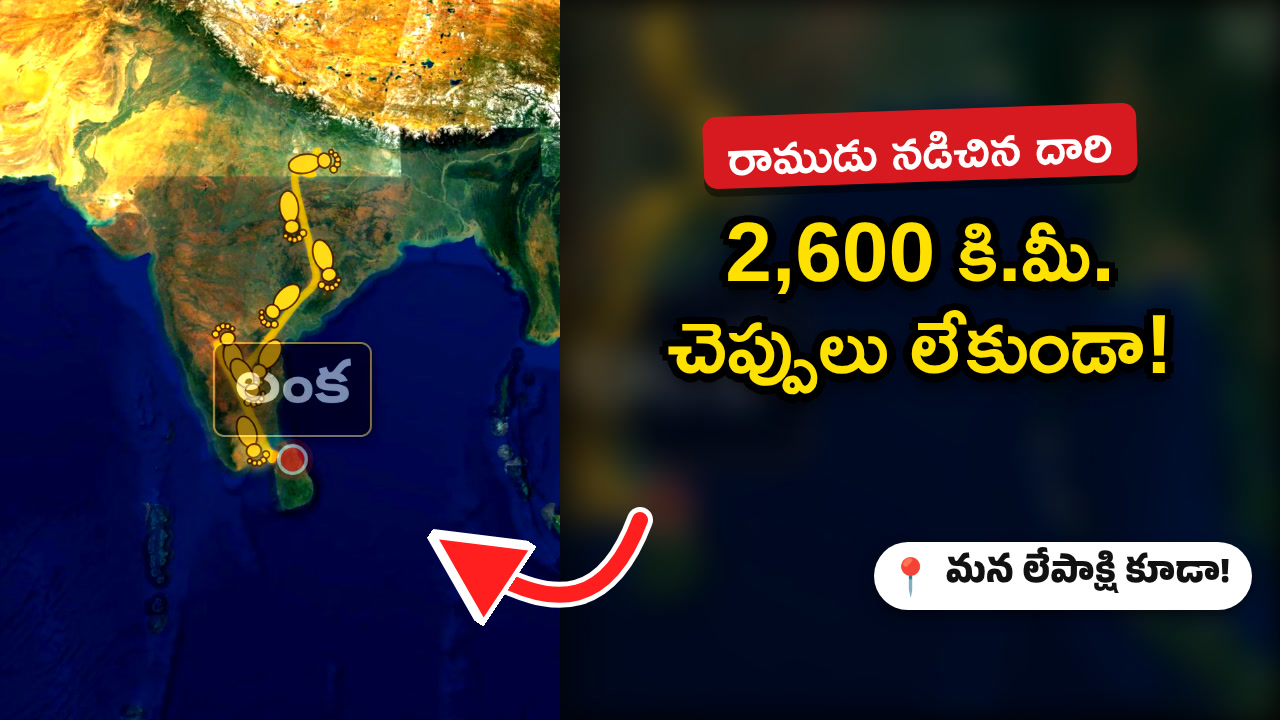
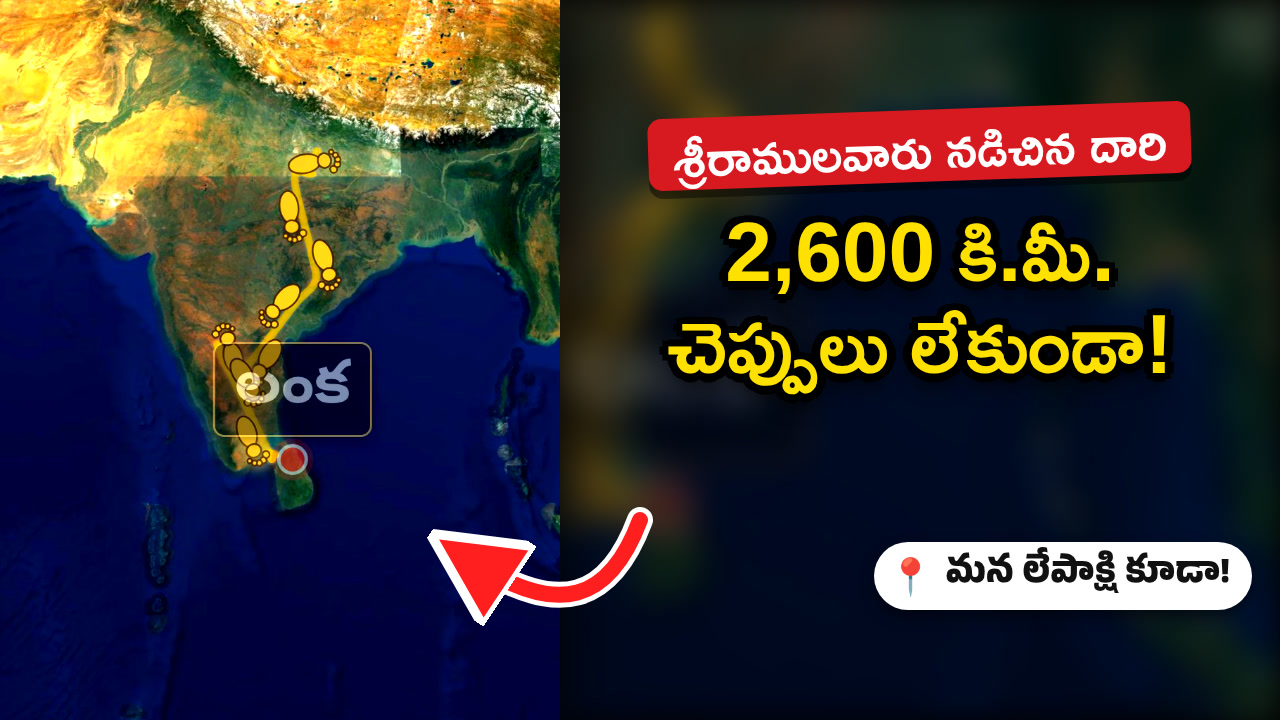
Rama reel: respectful forms in title, cover, thumbnail, publish copy
Claude-Session: https://claude.ai/code/session_017x8KaNM3focoJEkh1kSqmn

Changed region(s): [[0.5, 0.1222, 0.9375, 0.275]]

diff --git a/vishayam-entante-shorts/PUBLISH_COPY_rama_route.md b/vishayam-entante-shorts/PUBLISH_COPY_rama_route.md
@@ -1,6 +1,6 @@
 # Ramudu Nadichina Dhaari — Publish Copy (విషయం ఏంటంటే)
 
-Video: `rama_route_te.mp4` (1080×1920, ~62s, Teja voice only, pop captions, 3D map with footprint walk)
+Video: `rama_route_te.mp4` (1080×1920, ~63s, Teja voice only, pop captions, 3D map with footprint walk)
 Cover: `rama_cover_1080x1920.jpg` · Thumbnail: `rama_thumbnail_1280x720.jpg`
 
 **Every platform:** turn on the AI label (the feet, boat, padukas and Jatayu clips are AI-generated). YouTube: "Altered or synthetic content" → Yes. Audience: not made for kids.
@@ -13,7 +13,7 @@ Cover: `rama_cover_1080x1920.jpg` · Thumbnail: `rama_thumbnail_1280x720.jpg`
 
 **Title**
 ```
-14 ఏళ్లు… 2,600 కి.మీ. చెప్పులు లేకుండా! 👣 రాముడు నడిచిన దారి 3D Map | Ramayanam in Telugu
+14 ఏళ్లు… 2,600 కి.మీ. చెప్పులు లేకుండా! 👣 శ్రీరాములవారు నడిచిన దారి 3D Map | Ramayanam in Telugu
 ```
 
 **Description**
@@ -35,12 +35,12 @@ Note: ~2,600 km is measured on the map in straight lines between the stops, so t
 📷 Photos (Wikimedia Commons): "Godavari river at Parnashala Bhadrachalam" — Adityamadhav83 (CC BY-SA 3.0); "Hampi - Tungabhadra River - Anjaneya Hill - 1" — Ingo Mehling (CC BY-SA 4.0).
 🤖 Some scenes are AI-generated (feet, boat, padukas, Jatayu).
 
-#Ramayanam #రామాయణం #SriRama #శ్రీరాముడు #Lepakshi #లేపాక్షి #Bhadrachalam #Parnasala #Hampi #Ramayana3DMap #VishayamEntante #TeluguShorts
+#Ramayanam #రామాయణం #SriRama #శ్రీరామ #Lepakshi #లేపాక్షి #Bhadrachalam #Parnasala #Hampi #Ramayana3DMap #VishayamEntante #TeluguShorts
 ```
 
 **Tags**
 ```
-ramayanam map telugu, ramudu nadichina dhaari, ramayana route map, ramudi vanavasam, ayodhya to lanka, lepakshi le pakshi story, parnasala bhadrachalam, kishkindha hampi, rameswaram ram setu, 3d map telugu, శ్రీరాముడు, రామాయణం, లేపాక్షి, vishayam entante, telugu shorts
+ramayanam map telugu, ramudu nadichina dhaari, ramayana route map, ramudi vanavasam, ayodhya to lanka, lepakshi le pakshi story, parnasala bhadrachalam, kishkindha hampi, rameswaram ram setu, 3d map telugu, శ్రీరామ, రామాయణం, లేపాక్షి, vishayam entante, telugu shorts
 ```
 
 **Pinned comment**
@@ -75,7 +75,7 @@ Map: Sentinel-2 cloudless by EOX (CC BY 4.0) · Photos: Wikimedia Commons (credi
 
 **Caption**
 ```
-14 ఏళ్లు… 2,600 కిలోమీటర్లు… చెప్పులు లేకుండా! రాముడు నడిచిన దారి 3D మ్యాప్ మీద 👣
+14 ఏళ్లు… 2,600 కిలోమీటర్లు… చెప్పులు లేకుండా! శ్రీరాములవారు నడిచిన దారి 3D మ్యాప్ మీద 👣
 మన లేపాక్షి పేరు "లే పక్షి!" నుంచే వచ్చిందట.
 
 మీ దగ్గర్లో ఉన్న రామాయణ స్థలం ఏది? కామెంట్లో చెప్పండి 👇
